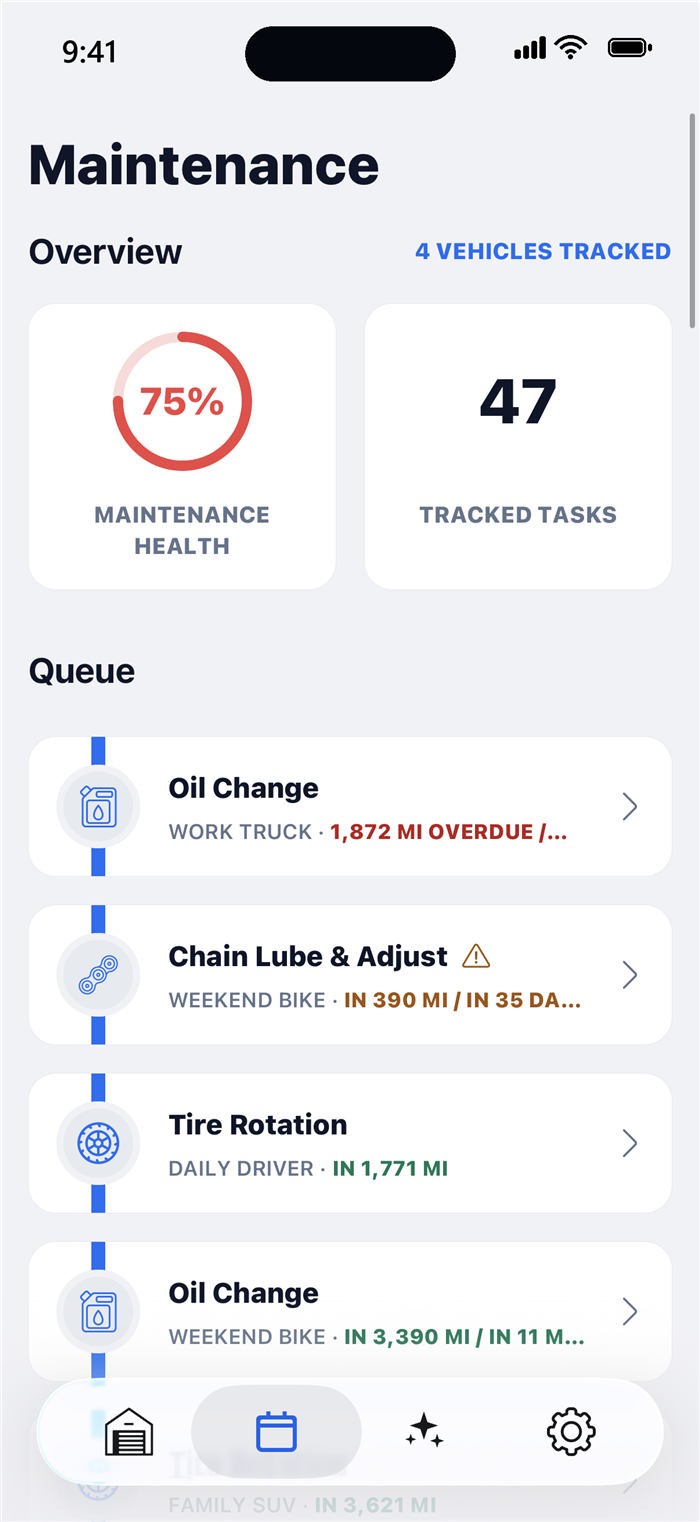
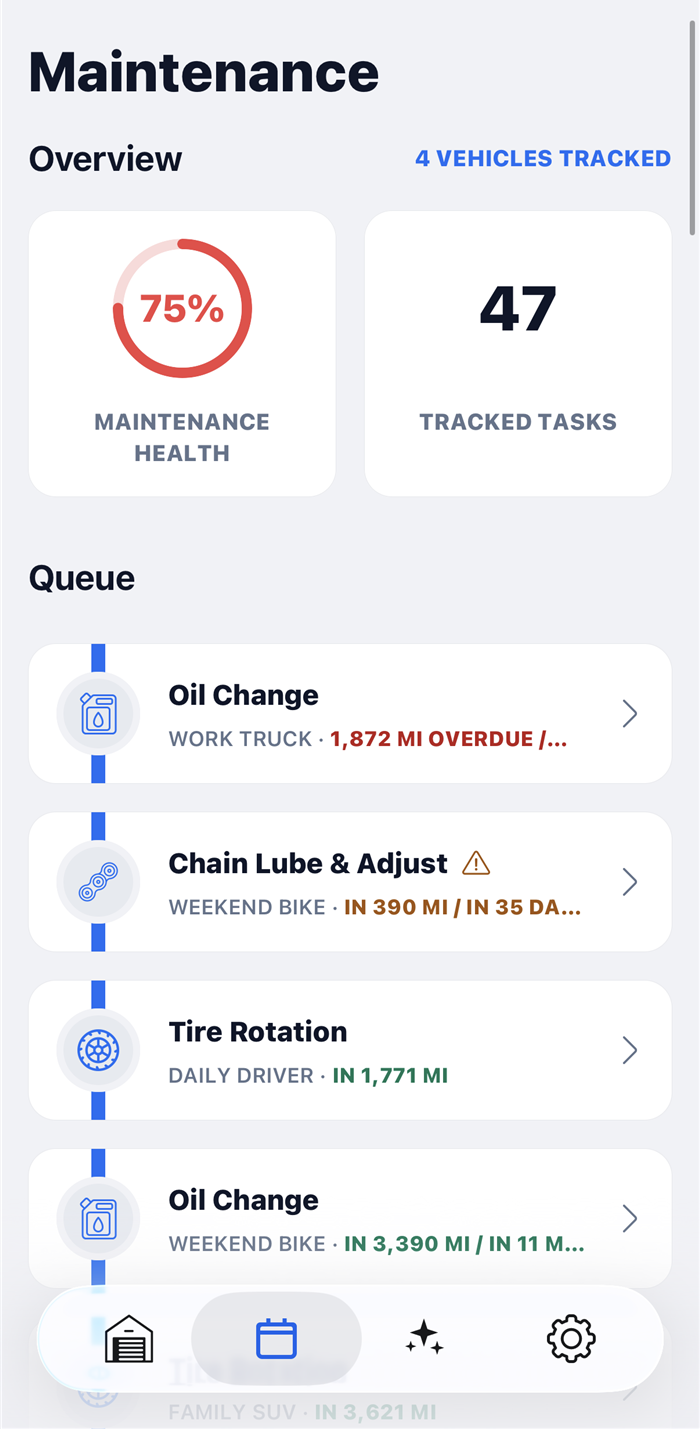
Polish pass: hero device flush to section bottom, mobile nav CTA restored, status bars cropped from screenshot strip, overflow safety

diff --git a/index.html b/index.html
@@ -3,11 +3,11 @@
 <head>
   <meta charset="utf-8">
   <meta name="viewport" content="width=device-width, initial-scale=1">
-  <title>Carrus — the app that remembers your car</title>
+  <title>Carrus â€” the app that remembers your car</title>
   <meta name="description" content="Oil, brakes, tires, paperwork. Carrus tracks every service by miles and months, scans your receipts, and has Carson, an AI mechanic to ask when something sounds wrong. Free for your first vehicle, on iPhone.">
   <meta name="apple-itunes-app" content="app-id=6770422802">
-  <meta property="og:title" content="Carrus — the app that remembers your car">
-  <meta property="og:description" content="Real manufacturer schedules where they exist — clearly-labeled estimates where they don't. Carrus never dresses a guess up as a fact.">
+  <meta property="og:title" content="Carrus â€” the app that remembers your car">
+  <meta property="og:description" content="Real manufacturer schedules where they exist â€” clearly-labeled estimates where they don't. Carrus never dresses a guess up as a fact.">
   <meta property="og:image" content="https://carrus.app/assets/garage.jpg">
   <meta property="og:url" content="https://carrus.app">
   <link rel="icon" type="image/png" href="/assets/logo.png">
@@ -16,13 +16,13 @@
   <link href="https://fonts.googleapis.com/css2?family=Inter:wght@400;500;600;700;800;900&display=swap" rel="stylesheet">
   <style>
     * { box-sizing: border-box; }
-    body { margin: 0; background: #F1F2F6; font-family: Inter, -apple-system, system-ui, sans-serif; -webkit-font-smoothing: antialiased; color: #0F172A; }
+    body { margin: 0; background: #F1F2F6; font-family: Inter, -apple-system, system-ui, sans-serif; -webkit-font-smoothing: antialiased; color: #0F172A; overflow-x: clip; }
     a { color: #146EF5; text-decoration: none; }
     a:hover { color: #0B57C9; }
     ::selection { background: rgba(20,110,245,.18); }
     .wrap { max-width: 1160px; margin: 0 auto; padding-left: 32px; padding-right: 32px; }
 
-    /* ── nav ── */
+    /* â”€â”€ nav â”€â”€ */
     .nav { position: sticky; top: 0; z-index: 60; background: rgba(241,242,246,.82); backdrop-filter: blur(18px) saturate(180%); -webkit-backdrop-filter: blur(18px) saturate(180%); border-bottom: 1px solid #E5E7EB; }
     .nav-in { padding-top: 16px; padding-bottom: 16px; display: flex; align-items: center; justify-content: space-between; }
     .logo { display: flex; align-items: center; gap: 10px; }
@@ -34,10 +34,10 @@
     .nav-cta { height: 40px; padding: 0 18px; border-radius: 20px; background: #0F172A; display: flex; align-items: center; font: 700 14px/1 Inter, system-ui; color: #fff !important; }
     .nav-cta:hover { background: #1E2A44; }
 
-    /* ── hero ── */
+    /* â”€â”€ hero â”€â”€ */
     .hero { background: #146EF5; position: relative; }
-    .hero-in { padding-top: 88px; display: grid; grid-template-columns: 1.05fr .95fr; gap: 48px; align-items: center; }
-    .hero-copy { padding-bottom: 96px; }
+    .hero-in { padding-top: 88px; display: grid; grid-template-columns: 1.05fr .95fr; gap: 48px; align-items: end; }
+    .hero-copy { padding-bottom: 96px; align-self: center; }
     .hero-badge { display: inline-flex; align-items: center; gap: 8px; height: 30px; padding: 0 12px; border-radius: 15px; background: rgba(255,255,255,.16); border: 1px solid rgba(255,255,255,.24); margin-bottom: 26px; }
     .hero-badge .dot { width: 6px; height: 6px; border-radius: 3px; background: #fff; }
     .hero-badge span { font: 600 12px/1 Inter, system-ui; color: #fff; letter-spacing: .02em; }
@@ -53,11 +53,11 @@
     .btn-play .k { font: 500 10px/14px Inter, system-ui; color: rgba(255,255,255,.6); letter-spacing: .06em; text-transform: uppercase; }
     .hero-note { display: flex; align-items: center; gap: 18px; margin-top: 20px; font: 500 14px/20px Inter, system-ui; color: rgba(255,255,255,.7); }
 
-    /* ── phone mockup ── */
+    /* â”€â”€ phone mockup â”€â”€ */
     .hero-phone { display: flex; justify-content: center; align-items: flex-end; height: 700px; overflow: hidden; position: relative; }
     .hero-device { display: block; width: 336px; height: auto; filter: drop-shadow(0 40px 60px rgba(4,32,80,.4)); }
 
-    /* ── sections ── */
+    /* â”€â”€ sections â”€â”€ */
     section { scroll-margin-top: 84px; }
     .sec-pad { padding-top: 96px; padding-bottom: 96px; }
     .kicker { font: 700 12px/1 Inter, system-ui; letter-spacing: .1em; text-transform: uppercase; color: #146EF5; margin-bottom: 16px; }
@@ -185,9 +185,9 @@
     .foot-base { display: flex; justify-content: space-between; align-items: center; padding-top: 12px; gap: 12px; flex-wrap: wrap; }
     .foot-base span { font: 500 13px/1 Inter, system-ui; color: rgba(250,250,250,.4); }
 
-    /* ── responsive ── */
+    /* â”€â”€ responsive â”€â”€ */
     @media (max-width: 960px) {
-      .nav-links > a { display: none; }
+      .nav-links > a:not(.nav-cta) { display: none; }
       .hero-in { grid-template-columns: 1fr; padding-top: 56px; }
       h1 { font-size: 44px; }
       .hero-copy { padding-bottom: 12px; }
@@ -221,17 +221,17 @@
 <section class="hero">
   <div class="wrap hero-in">
     <div class="hero-copy">
-      <div class="hero-badge"><div class="dot"></div><span>iOS · 7 languages</span></div>
+      <div class="hero-badge"><div class="dot"></div><span>iOS Â· 7 languages</span></div>
       <h1>Know what your car actually needs.</h1>
-      <p class="hero-sub">Real manufacturer schedules where they exist — clearly-labeled estimates where they don't. Carrus never dresses a guess up as a fact.</p>
+      <p class="hero-sub">Real manufacturer schedules where they exist â€” clearly-labeled estimates where they don't. Carrus never dresses a guess up as a fact.</p>
       <div class="hero-ctas">
         <a class="btn-appstore" href="https://apps.apple.com/app/id6770422802"><span class="k">Download on the</span><span class="v">App Store</span></a>
         <div class="btn-play" title="Android is in testing"><span class="v">Google Play</span><span class="k">Coming soon</span></div>
       </div>
-      <div class="hero-note">Free for one vehicle · no account required</div>
+      <div class="hero-note">Free for one vehicle Â· no account required</div>
     </div>
     <div class="hero-phone">
-      <img class="hero-device" src="/assets/hero-phone.png" alt="Carrus garage screen on iPhone — three vehicles with health rings and fuel levels" width="720" height="1467">
+      <img class="hero-device" src="/assets/hero-phone.png" alt="Carrus garage screen on iPhone â€” three vehicles with health rings and fuel levels" width="720" height="1467">
     </div>
   </div>
 </section>
@@ -242,8 +242,8 @@
       <div>
         <div class="kicker">The principle</div>
         <h2 style="color:#0F172A">Every interval says where it came from.</h2>
-        <p class="lede">Most trackers invent a schedule and never tell you. Carrus labels every task in the app: the manufacturer's published interval, or an estimate — and which it is, on the row, always.</p>
-        <a class="honesty-link" href="#features">See how it looks in the app →</a>
+        <p class="lede">Most trackers invent a schedule and never tell you. Carrus labels every task in the app: the manufacturer's published interval, or an estimate â€” and which it is, on the row, always.</p>
+        <a class="honesty-link" href="#features">See how it looks in the app â†’</a>
       </div>
       <div class="label-cards">
         <div class="label-card">
@@ -268,7 +268,7 @@
             <div class="proof-ic"><i></i></div>
             <div style="flex:1">
               <div class="proof-t">Oil &amp; filter</div>
-              <div class="proof-s">Manufacturer schedule · every 7,500 mi</div>
+              <div class="proof-s">Manufacturer schedule Â· every 7,500 mi</div>
             </div>
             <span class="pill-red">Overdue</span>
           </div>
@@ -281,7 +281,7 @@
 <section id="features" class="features">
   <div class="wrap sec-pad">
     <h2 style="color:#0F172A">One screen tells you where every car stands.</h2>
-    <p class="lede">Health, fuel, what's late and what it cost — no dashboards to assemble.</p>
+    <p class="lede">Health, fuel, what's late and what it cost â€” no dashboards to assemble.</p>
     <div class="feat-grid">
       <div class="feat-card">
         <div style="display:flex;align-items:center;gap:16px">
@@ -295,7 +295,7 @@
       </div>
       <div class="feat-card">
         <div>
-          <div class="spend-k">Spending · 12 mo</div>
+          <div class="spend-k">Spending Â· 12 mo</div>
           <div class="spend-v">$1,486.20</div>
           <div class="bars"><i style="height:38%"></i><i style="height:62%"></i><i style="height:24%"></i><i style="height:88%"></i><i style="height:46%"></i><i style="height:70%"></i></div>
         </div>
@@ -308,7 +308,7 @@
         <div>
           <div class="gauge-head"><span class="k">Fuel level</span><span class="v">62%</span></div>
           <div class="gauge"><div class="fill"></div><div class="needle"></div><div class="ef"><span>E</span><span>F</span></div></div>
-          <div class="gauge-note">Drag to set · 257 mi est. range</div>
+          <div class="gauge-note">Drag to set Â· 257 mi est. range</div>
         </div>
         <div>
           <div class="feat-t">A gauge you can drag</div>
@@ -324,7 +324,7 @@
     <div>
       <div class="kicker">Carson</div>
       <h2>Describe the noise. Get a straight answer.</h2>
-      <p class="lede">Carson triages like a shop foreman: likely causes, what to check yourself, and how urgent it really is — before you're quoted for it.</p>
+      <p class="lede">Carson triages like a shop foreman: likely causes, what to check yourself, and how urgent it really is â€” before you're quoted for it.</p>
       <div class="chips">
         <span class="chip">Squeal when braking</span>
         <span class="chip">Check engine light</span>
@@ -334,13 +334,13 @@
     <div class="chat">
       <div class="bubble">Squeal when braking, only in the morning</div>
       <div class="chat-h">Most likely causes</div>
-      <div class="chat-p">Surface rust burning off overnight · worn pad wear-indicators · glazed pads.</div>
+      <div class="chat-p">Surface rust burning off overnight Â· worn pad wear-indicators Â· glazed pads.</div>
       <div class="chat-h">Check first</div>
       <div class="chat-p">Does it go away after three or four stops? That's rust, and it's normal. If it stays all day, look at pad thickness through the wheel.</div>
       <div class="chat-h">Urgency</div>
       <div class="urgency"><span class="u-pill">Weeks, not days</span><span class="u-note">Grinding = stop driving</span></div>
       <div class="chat-div"></div>
-      <div class="chat-foot">Carson knows your mileage and history — answers are specific to the car, not the internet.</div>
+      <div class="chat-foot">Carson knows your mileage and history â€” answers are specific to the car, not the internet.</div>
     </div>
   </div>
 </section>
@@ -349,13 +349,13 @@
   <div class="wrap shots-pad">
     <div class="shots-head">
       <h2 style="color:#0F172A">Built for the whole garage</h2>
-      <span>Cars · trucks · bikes · scooters — 12 body types</span>
+      <span>Cars Â· trucks Â· bikes Â· scooters â€” 12 body types</span>
     </div>
     <div class="shots-grid">
-      <div class="shot"><img src="/assets/shots/shot-01.png" alt="Carrus garage screen with vehicle health rings" loading="lazy" width="700" height="1522"></div>
-      <div class="shot"><img src="/assets/shots/shot-02.png" alt="Carrus maintenance schedule with sourced intervals" loading="lazy" width="700" height="1522"></div>
-      <div class="shot"><img src="/assets/shots/shot-03.png" alt="Carson AI mechanic chat" loading="lazy" width="700" height="1522"></div>
-      <div class="shot"><img src="/assets/shots/shot-04.png" alt="Fuel and cost tracking" loading="lazy" width="700" height="1522"></div>
+      <div class="shot"><img src="/assets/shots/shot-01.png" alt="Carrus garage screen with vehicle health rings" loading="lazy" width="700" height="1429"></div>
+      <div class="shot"><img src="/assets/shots/shot-02.png" alt="Carrus maintenance schedule with sourced intervals" loading="lazy" width="700" height="1429"></div>
+      <div class="shot"><img src="/assets/shots/shot-03.png" alt="Carson AI mechanic chat" loading="lazy" width="700" height="1429"></div>
+      <div class="shot"><img src="/assets/shots/shot-04.png" alt="Fuel and cost tracking" loading="lazy" width="700" height="1429"></div>
     </div>
   </div>
 </section>
@@ -368,11 +368,11 @@
       <div class="price-card pc-free">
         <div class="pc-name">Free</div>
         <div class="pc-price">$0</div>
-        <div class="pc-note">One vehicle · forever</div>
+        <div class="pc-note">One vehicle Â· forever</div>
         <div class="pc-list">
           <div class="pc-item"><i></i><span>Full schedule with honesty labels</span></div>
           <div class="pc-item"><i></i><span>Fill-ups, costs, glovebox</span></div>
-          <div class="pc-item muted"><i></i><span>Carson chats · 5 a day</span></div>
+          <div class="pc-item muted"><i></i><span>Carson chats Â· 5 a day</span></div>
         </div>
         <a class="pc-cta" href="https://apps.apple.com/app/id6770422802">Download</a>
       </div>
@@ -382,7 +382,7 @@
           <span class="trial-chip">Free week</span>
         </div>
         <div class="pc-price">$39.99</div>
-        <div class="pc-note">per year · $3.33 a month · save 44%</div>
+        <div class="pc-note">per year Â· $3.33 a month Â· save 44%</div>
         <div class="pc-list">
           <div class="pc-item"><i></i><span>Unlimited vehicles</span></div>
           <div class="pc-item"><i></i><span>Custom tasks &amp; intervals</span></div>
@@ -390,7 +390,7 @@
           <div class="pc-item"><i></i><span>Unlimited glovebox documents</span></div>
         </div>
         <a class="pc-cta" href="https://apps.apple.com/app/id6770422802">Start free week</a>
-        <div class="pc-alt">or $5.99 a month · cancel anytime</div>
+        <div class="pc-alt">or $5.99 a month Â· cancel anytime</div>
       </div>
     </div>
   </div>
@@ -419,18 +419,18 @@
       <div class="foot-col">
         <div class="foot-h">Get it</div>
         <a href="https://apps.apple.com/app/id6770422802">App Store</a>
-        <a href="#pricing">Google Play — soon</a>
+        <a href="#pricing">Google Play â€” soon</a>
       </div>
     </div>
     <div class="locales">
       <span class="loc">English</span>
-      <span class="loc">Español · MX</span>
-      <span class="loc">Español · ES</span>
+      <span class="loc">EspaÃ±ol Â· MX</span>
+      <span class="loc">EspaÃ±ol Â· ES</span>
       <span class="loc">Italiano</span>
-      <span class="loc planned">العربية · planned</span>
+      <span class="loc planned">Ø§Ù„Ø¹Ø±Ø¨ÙŠØ© Â· planned</span>
     </div>
     <div class="foot-base">
-      <span>© 2026 Carrus · carrus.app</span>
+      <span>Â© 2026 Carrus Â· carrus.app</span>
       <span>Estimates are labeled. Always.</span>
     </div>
   </div>
